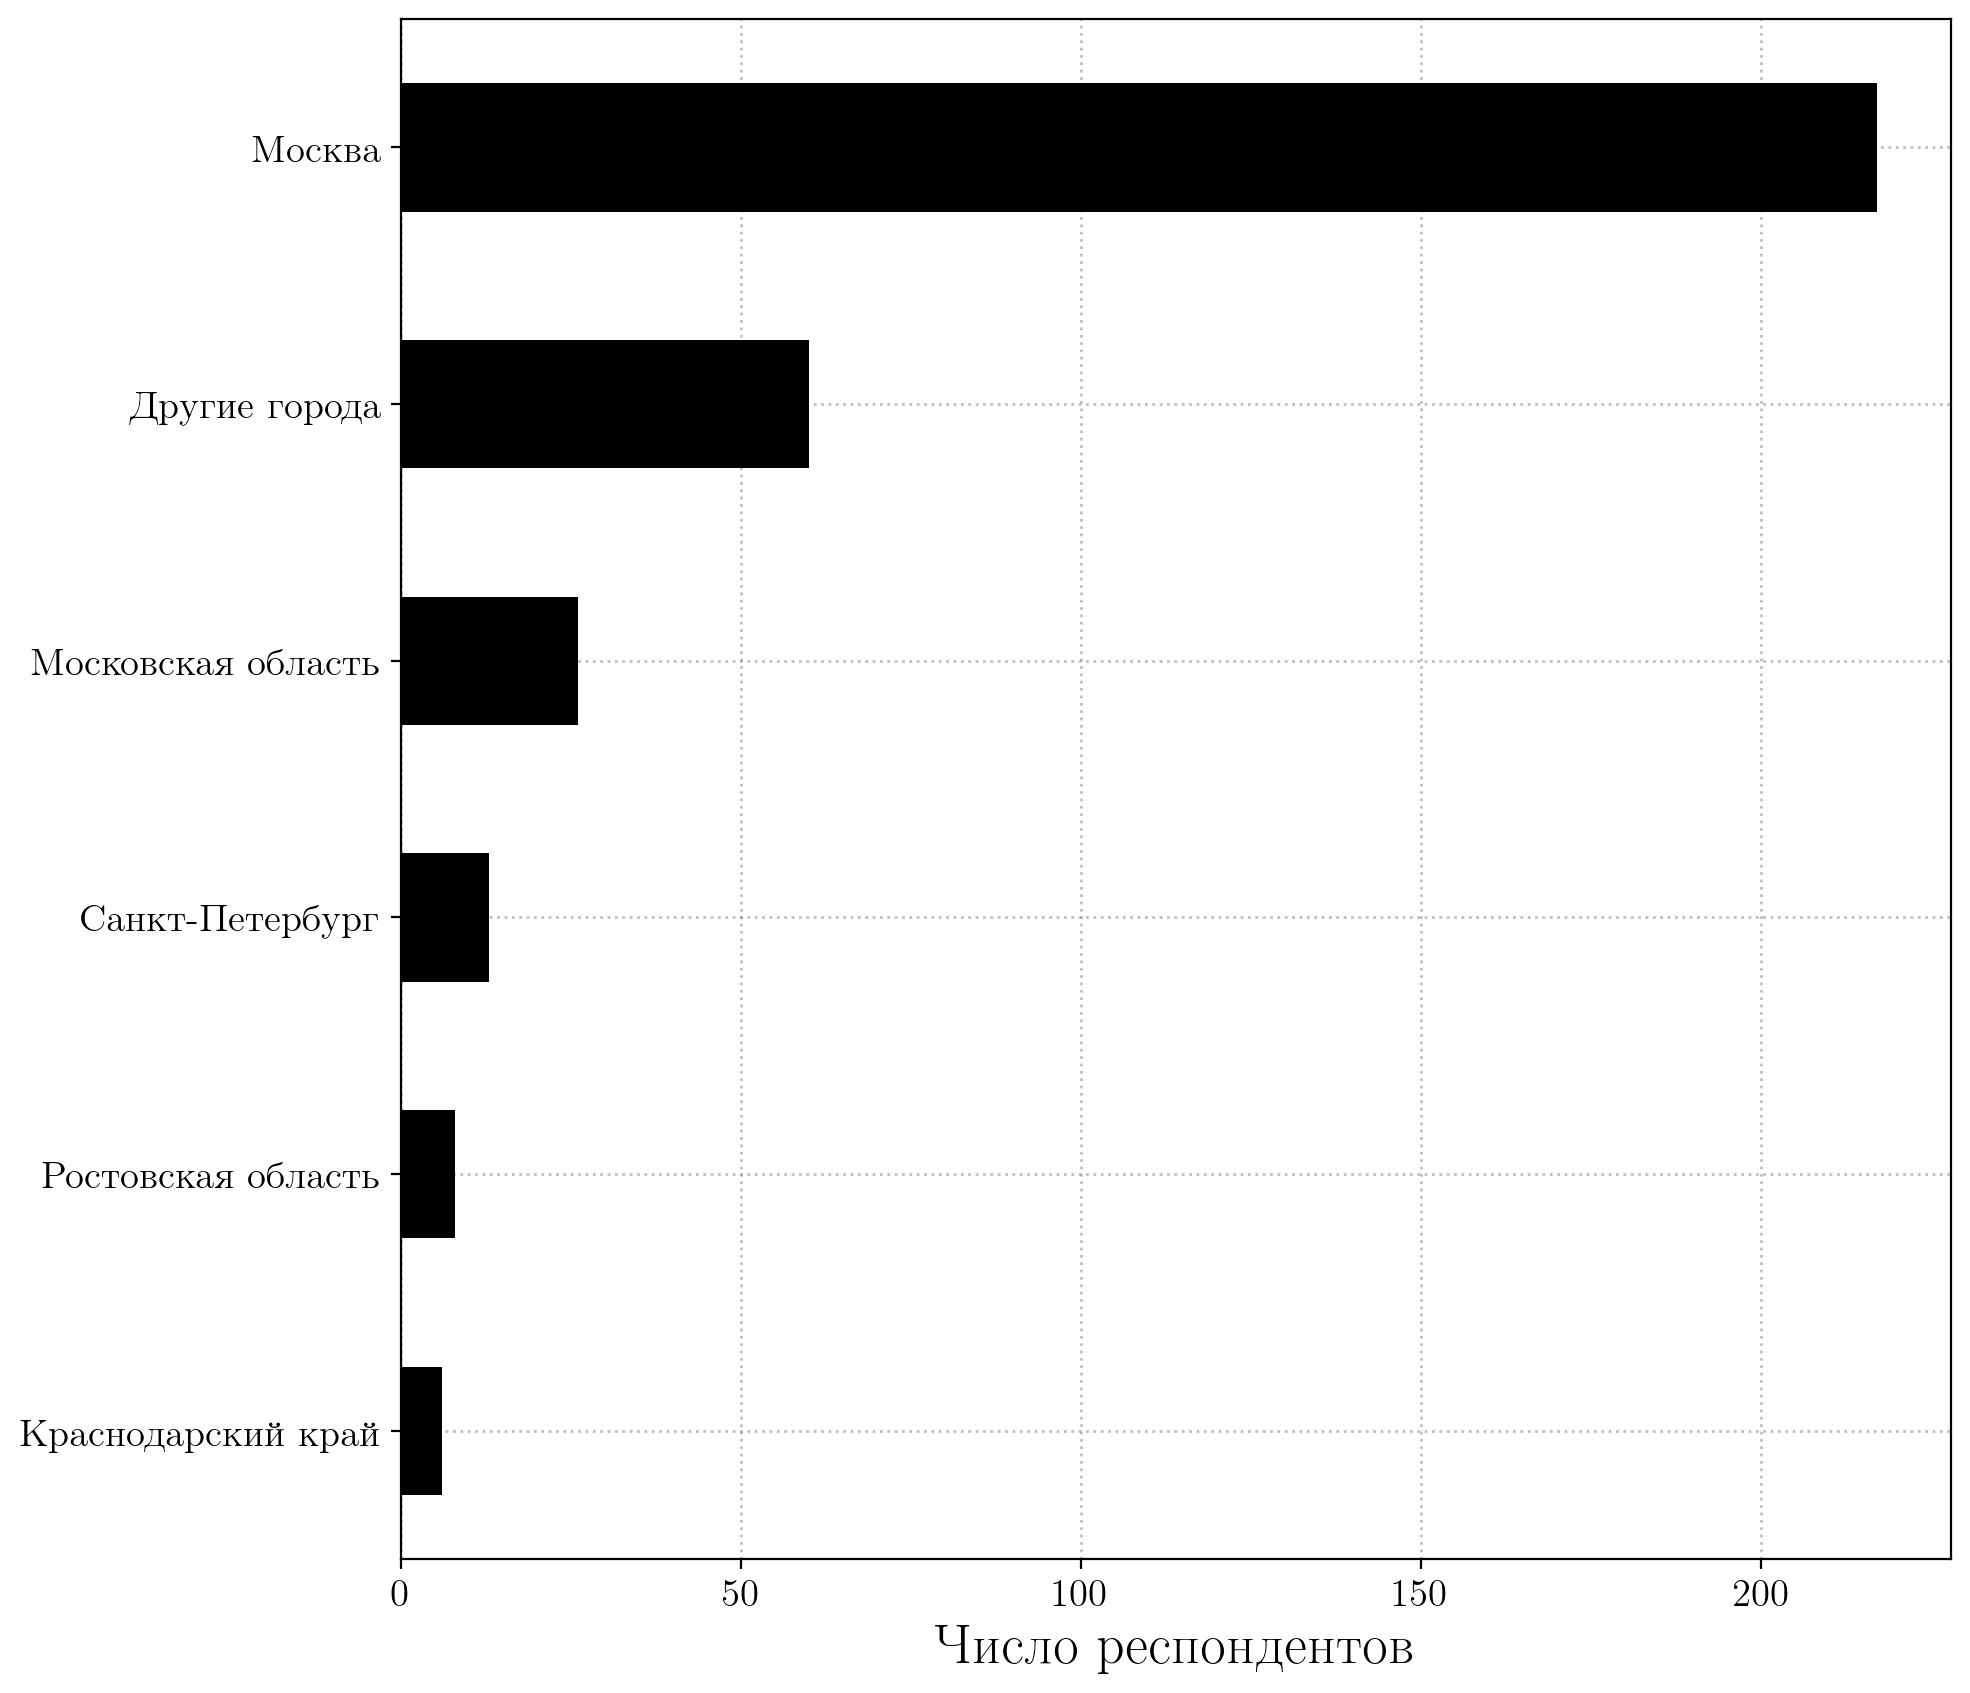
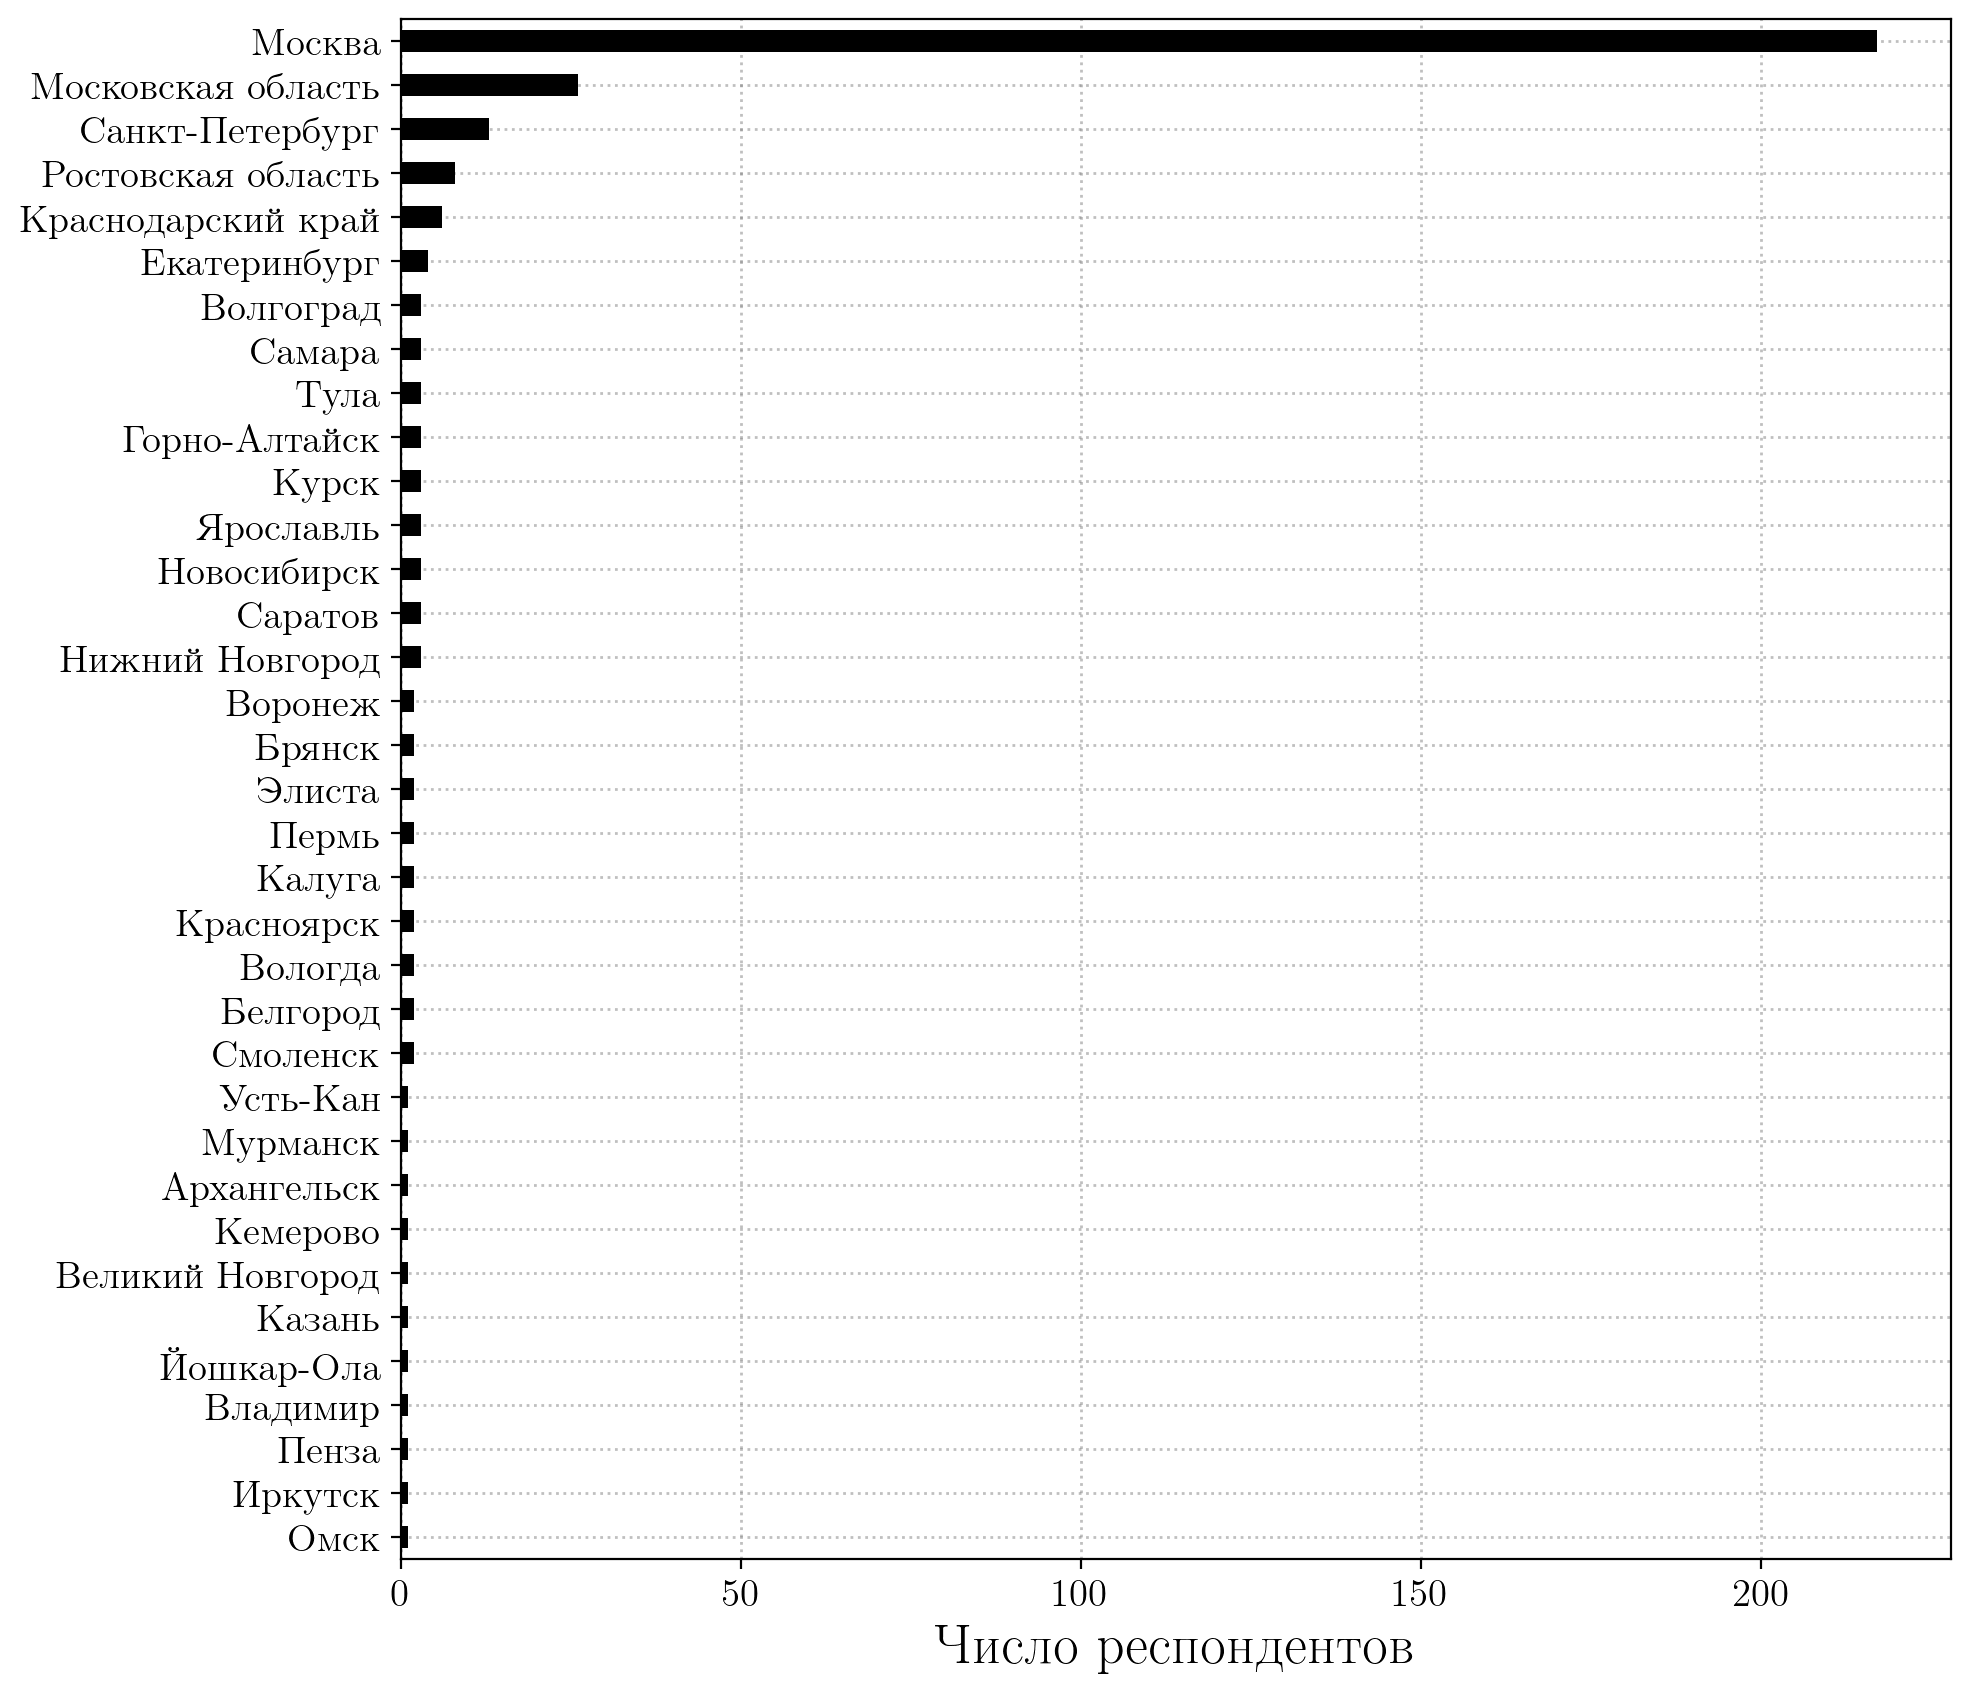
cities stats

Changed region(s): [[0.0, 0.0, 0.9599, 0.9214]]

diff --git a/main.py b/main.py
@@ -19,11 +19,22 @@ class Processor:
 
         df_initial = self.__readout()
 
-        cities_statistics = self.__get_cities_statistics(df_initial)
-        self.__plot_cities_on_map()
+        # cities
+        df = self.__preprocess_cities(df_initial)
+        df_cities, n_top = self.__process_cities(df)
+        self.__plot_cities_on_map(df_cities, n_top)
 
-    def __get_cities_statistics(self, df):
+    def __readout(self):
+        n_questions = 134
+        base_columns = ['time', 'age', 'sex', 'education_level', 'education_profile', 'city']
+        columns = base_columns + ['{:03d}'.format(i + 1) for i in range(n_questions)]
+        df = pd.read_excel(self.__path_to_xlsx,
+                           names=columns)
 
+        return df
+
+    @staticmethod
+    def __preprocess_cities(df):
         # filter and aggregate cities
         i_to_drop = []
         for i in range(len(df['city'])):
@@ -37,9 +48,9 @@ class Processor:
                         'страна Казахстан, город Атырау', 'Бостон, США'):
                 city = 'Москва'
             elif city in ('Одинцово', 'Люберцы', 'Ступино', 'Ступино московской обл',
-                        'Мытищи', 'Химки', 'Балашиха', 'Ступино Московской области',
-                        'Г. Троицк, Москва', 'Хотьково', 'Пушкино', 'Железнодорожный',
-                        'Ступино Московской обл', 'Серпухов', 'Котельники', 'Сергиев Посад'):
+                          'Мытищи', 'Химки', 'Балашиха', 'Ступино Московской области',
+                          'Г. Троицк, Москва', 'Хотьково', 'Пушкино', 'Железнодорожный',
+                          'Ступино Московской обл', 'Серпухов', 'Котельники', 'Сергиев Посад'):
                 city = 'Московская область'
             elif city in ('Волгодонск', 'Ростовская обл', 'Живу в деревне', 'Азов', 'Волгодонск Ростовская обл.',
                           'Ростов-на-Дону'):
@@ -72,22 +83,55 @@ class Processor:
             df.loc[i, 'city'] = city
         df = df.drop(df.index[i_to_drop])
 
-        # select only top
-        n_top = 5
-        counts = Counter(df['city'])
-        cc = [(k, v) for k, v in counts.items()]
-        cc.sort(key=lambda x: x[1], reverse=True)
-        cc_agg = cc[:n_top]
-        n_other = 0
-        for i in range(n_top, len(cc)):
-            n_other += cc[i][1]
-        cc_agg.append(('Другие города', n_other))
-        counts_agg = dict(cc_agg)
+        return df
 
-        # make dataframe
-        df_cities = pd.DataFrame.from_dict(counts_agg, orient='index', columns=['number'])
+    @staticmethod
+    def __process_cities(df):
+        counts = Counter(df['city'])
+        df_cities = pd.DataFrame.from_dict(counts, orient='index', columns=['number'])
         df_cities['percent'] = df_cities['number'] / len(df) * 100
-        df_cities = df_cities.sort_values(by=['number'])
+        df_cities = df_cities.sort_values(by=['number'], ascending=True)
+
+        cities = df_cities.index.values.tolist()
+        coords = {'Москва': (37.6173, 55.7558),
+                  'Московская область': (37.6173, 55.7558),
+                  'Санкт-Петербург': (30.3609, 59.9311),
+                  'Ростовская область': (39.7015, 47.2357),
+                  'Краснодарский край': (38.9746, 45.0360),
+                  'Екатеринбург': (60.6454, 56.8431),
+                  'Волгоград': (44.5133, 48.7080),
+                  'Тула': (44.5133, 48.7080),
+                  'Горно-Алтайск': (85.9601, 51.9587),
+                  'Саратов': (46.0154, 51.5462),
+                  'Новосибирск': (46.0154, 51.5462),
+                  'Самара': (50.1606, 53.2038),
+                  'Нижний Новгород': (44.0059, 56.3269),
+                  'Курск': (36.1947, 51.7482),
+                  'Ярославль': (39.8845, 57.6261),
+                  'Смоленск': (32.0504, 54.7903),
+                  'Белгород': (36.5983, 50.5997),
+                  'Вологда': (39.8978, 59.2181),
+                  'Пермь': (56.2270, 58.0092),
+                  'Красноярск': (92.8932, 56.0153),
+                  'Калуга': (36.2637, 54.5136),
+                  'Воронеж': (39.1919, 51.6683),
+                  'Элиста': (44.2794, 46.3155),
+                  'Брянск': (34.4161, 53.2635),
+                  'Архангельск': (40.5506, 64.5459),
+                  'Кемерово': (86.0621, 55.3443),
+                  'Великий Новгород': (31.2742, 58.5256),
+                  'Казань': (49.1233, 55.7879),
+                  'Усть-Кан': (84.7522, 50.9332),
+                  'Йошкар-Ола': (47.8896, 56.6418),
+                  'Пенза': (45.0000, 53.2273),
+                  'Иркутск': (104.2890, 52.2855),
+                  'Владимир': (40.3896, 56.1428),
+                  'Мурманск': (33.0856, 68.9733),
+                  'Омск': (73.3645, 54.9914),
+                  }
+        for city in cities:
+            df_cities.loc[city, 'lon'] = coords[city][0]
+            df_cities.loc[city, 'lat'] = coords[city][1]
 
         # plot number
         fig = plt.figure(figsize=(10, 10))
@@ -113,16 +157,50 @@ class Processor:
         plt.savefig('cities_percent.png', bbox_inches='tight', dpi=200)
         plt.close()
 
-    def __readout(self):
-        n_questions = 134
-        base_columns = ['time', 'age', 'sex', 'education_level', 'education_profile', 'city']
-        columns = base_columns + ['{:03d}'.format(i + 1) for i in range(n_questions)]
-        df = pd.read_excel(self.__path_to_xlsx,
-                           names=columns)
+        # select only top
+        n_top = 5
+        cc = [(k, v) for k, v in counts.items()]
+        cc.sort(key=lambda x: x[1], reverse=True)
+        cc_agg = cc[:n_top]
+        n_other = 0
+        for i in range(n_top, len(cc)):
+            n_other += cc[i][1]
+        cc_agg.append(('Другие города', n_other))
+        counts_agg = dict(cc_agg)
 
-        return df
+        # make dataframe
+        df_cities_agg = pd.DataFrame.from_dict(counts_agg, orient='index', columns=['number'])
+        df_cities_agg['percent'] = df_cities_agg['number'] / len(df) * 100
+        df_cities_agg = df_cities_agg.sort_values(by=['number'], ascending=True)
 
-    def __plot_cities_on_map(self):
+        # plot number aggregated
+        fig = plt.figure(figsize=(10, 10))
+        ax = fig.add_subplot()
+        df_cities_agg['number'].plot.barh(color='black', legend=False)
+        plt.xticks(fontsize=14)
+        plt.yticks(fontsize=14)
+        plt.xlabel('Число респондентов', fontsize=20)
+        plt.grid(c='gray', lw=1, ls=':', alpha=0.5)
+        ax.set_axisbelow(True)
+        plt.savefig('cities_number_aggregated.png', bbox_inches='tight', dpi=200)
+        plt.close()
+
+        # plot percent aggregated
+        fig = plt.figure(figsize=(10, 10))
+        ax = fig.add_subplot()
+        df_cities_agg['percent'].plot.barh(color='red', legend=False)
+        plt.xticks(fontsize=14)
+        plt.yticks(fontsize=14)
+        plt.xlabel('Число респондентов, $\%$', fontsize=20)
+        plt.grid(c='gray', lw=1, ls=':', alpha=0.5)
+        ax.set_axisbelow(True)
+        plt.savefig('cities_percent_aggregated.png', bbox_inches='tight', dpi=200)
+        plt.close()
+
+        return df_cities, n_top
+
+    @staticmethod
+    def __plot_cities_on_map(df, n_top):
         def shift_geom(shift, gdataframe, plotQ=False):
             # this code is adapted from answer found in SO
             # will be credited here: ???
@@ -152,30 +230,26 @@ class Processor:
                 plt.show()
 
             return moved_geom_gdf
-        # # df = pd.DataFrame(
-        #     {'City': ['Buenos Aires', 'Brasilia', 'Santiago', 'Bogota', 'Caracas'],
-        #      'Country': ['Argentina', 'Brazil', 'Chile', 'Colombia', 'Venezuela'],
-        #      'Latitude': [-34.58, -15.78, -33.45, 4.60, 10.48],
-        #      'Longitude': [-58.66, -47.91, -70.66, -74.08, -66.86]})
 
-        # gdf = geopandas.GeoDataFrame(
-        #     df, geometry=geopandas.points_from_xy(df.Longitude, df.Latitude))
+        df = df.sort_values(by=['number'], ascending=False)
 
-        # print(gdf.head())
+        # delete Московская область
+        df = df.drop(df.index[1])
 
         world = gpd.read_file(gpd.datasets.get_path('naturalearth_lowres'))
-        russia = world[world['iso_a3'] == 'RUS']
-        new_rus = shift_geom(-90, shift_geom(90, russia, False), True)
-        new_rus.plot(figsize=(20, 20))
-        plt.scatter([75, 100], [60, 70], c='red', s=100, alpha=1)
-        plt.text(75, 60, 'Москва', color='black', fontsize=20, zorder=1)
+        russia = shift_geom(-90, shift_geom(90, world[world['iso_a3'] == 'RUS'], False), True)
+        russia.plot(figsize=(20, 20))
+
+        for i, city in enumerate(df.index.values.tolist()):
+            s = 200 if i < n_top - 1 else 20
+            plt.scatter(df.loc[city, 'lon'], df.loc[city, 'lat'], c='red', s=s, alpha=1)
+            if i < n_top - 1:
+                plt.text(df.loc[city, 'lon'] + 1, df.loc[city, 'lat'], city, color='black',
+                         fontsize=20, zorder=1)
         plt.xticks([])
         plt.yticks([])
-        plt.savefig('russia.png', bbox_inches='tight', dpi=200)
-
-        # states = gpd.read_file('data/usa-states-census-2014.shp')
-        # states = states.to_crs("EPSG:3395")
-        # states.boundary.plot()
+        plt.xlim([22, 110])
+        plt.savefig('map.png', bbox_inches='tight', dpi=200)
 
 
 if __name__ == '__main__':
